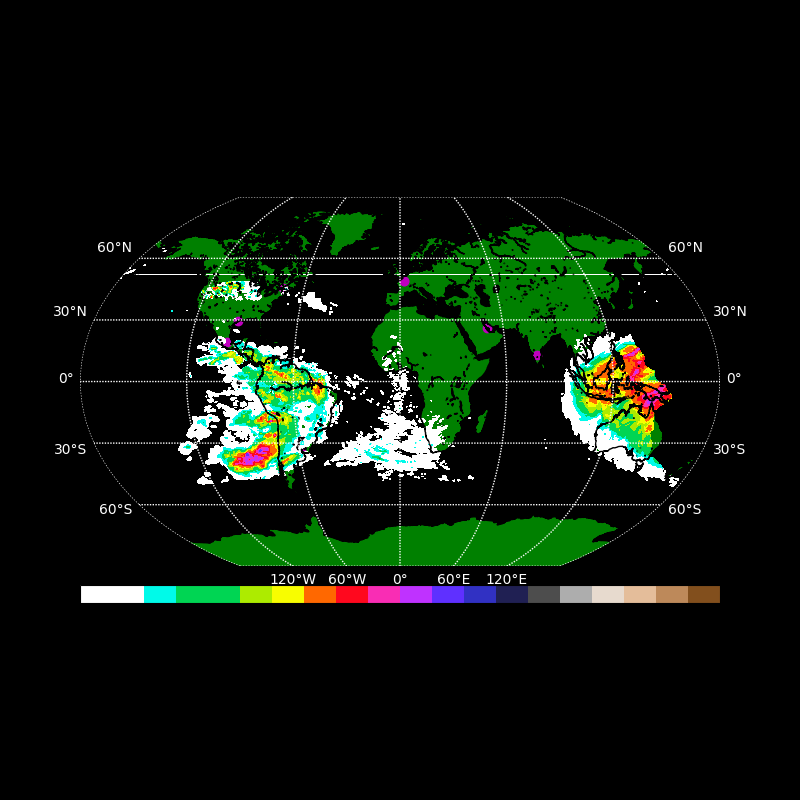
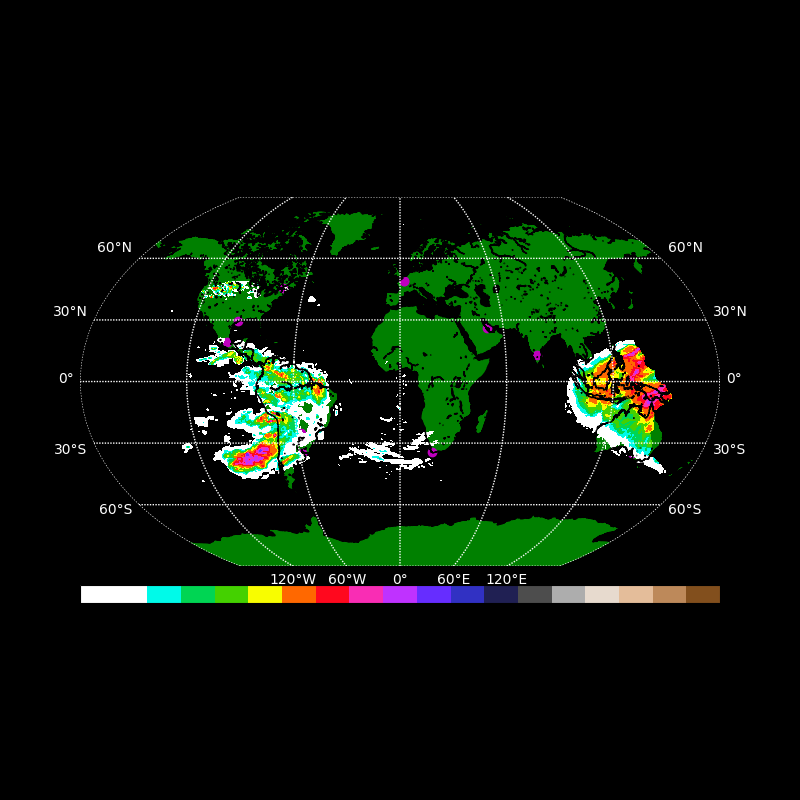
small changes

diff --git a/indexHtml.py b/indexHtml.py
@@ -1,4 +1,4 @@
-import html
+from dash import html
 from ionoMapApp import app
 
 
@@ -7,19 +7,7 @@ colors = {
     'text': '#4F8A39'
 }
 
-app.layout = html.Div(style={'backgroundColor': colors['background']}, children = [html.H1('IonoMap',
-                               style={'color': colors['text'],
-                                      'textAlign': 'center',
-                                      'background': 'black'
-                                    }),
-                       html.Div(style={'backgroundColor': colors['background']}, children = [html.H1('IonoMap',
-                               style={'color': colors['text'],
-                                      'textAlign': 'center',
-                                      'background': 'black'
-                                    }),
-                       html.Img(src=app.get_asset_url('Map.png'), height=600,
-                                style={'position': 'fixed',
-                                       })])])
+app.layout = html.Div()
 
 
 if __name__ == '__main__':

diff --git a/CNDataAnalysys.py b/CNDataAnalysys.py
@@ -6,11 +6,12 @@ ionovars = dataSet.variables['percent_of_normal']
 data = 0.01 * ionovars[:]
 latcorners = dataSet.variables['y'][:]
 loncorners = -dataSet.variables['x'][:]
-#lon_0 = -dataSet.variables['normal'][:]
-#lat_0 = dataSet.variables['observation'][:]
 
 if __name__ == "__main__":
 
-    for dim in dataSet.dimensions.values():
-        print(dim)
-    print(dataSet)
+    # for dim in dataSet.dimensions.values():
+    #     print(dim)
+    # print(dataSet)
+    for var in dataSet.variables.values():
+        print(var)
+

diff --git a/map.py b/map.py
@@ -28,7 +28,7 @@ nx = data.shape[1]
 lons, lats = map.makegrid(nx, ny)
 xx, yy = map(lons, lats)
 
-clevs = [0, 1, 2.5, 5, 7.5, 10, 15, 20, 30, 40, 50, 70, 100, 150, 200, 250, 300, 400, 500, 600, 750]
+clevs = [1, 2.5, 5, 7.5, 10, 15, 20, 30, 40, 50, 70, 100, 150, 200, 250, 300, 400, 500, 600, 750]
 cs = map.contourf(xx, yy, data, clevs, cmap=cm.s3pcpn)
 cbar = map.colorbar(cs, location='bottom', pad="5%")
 cbar.set_label('AER')
